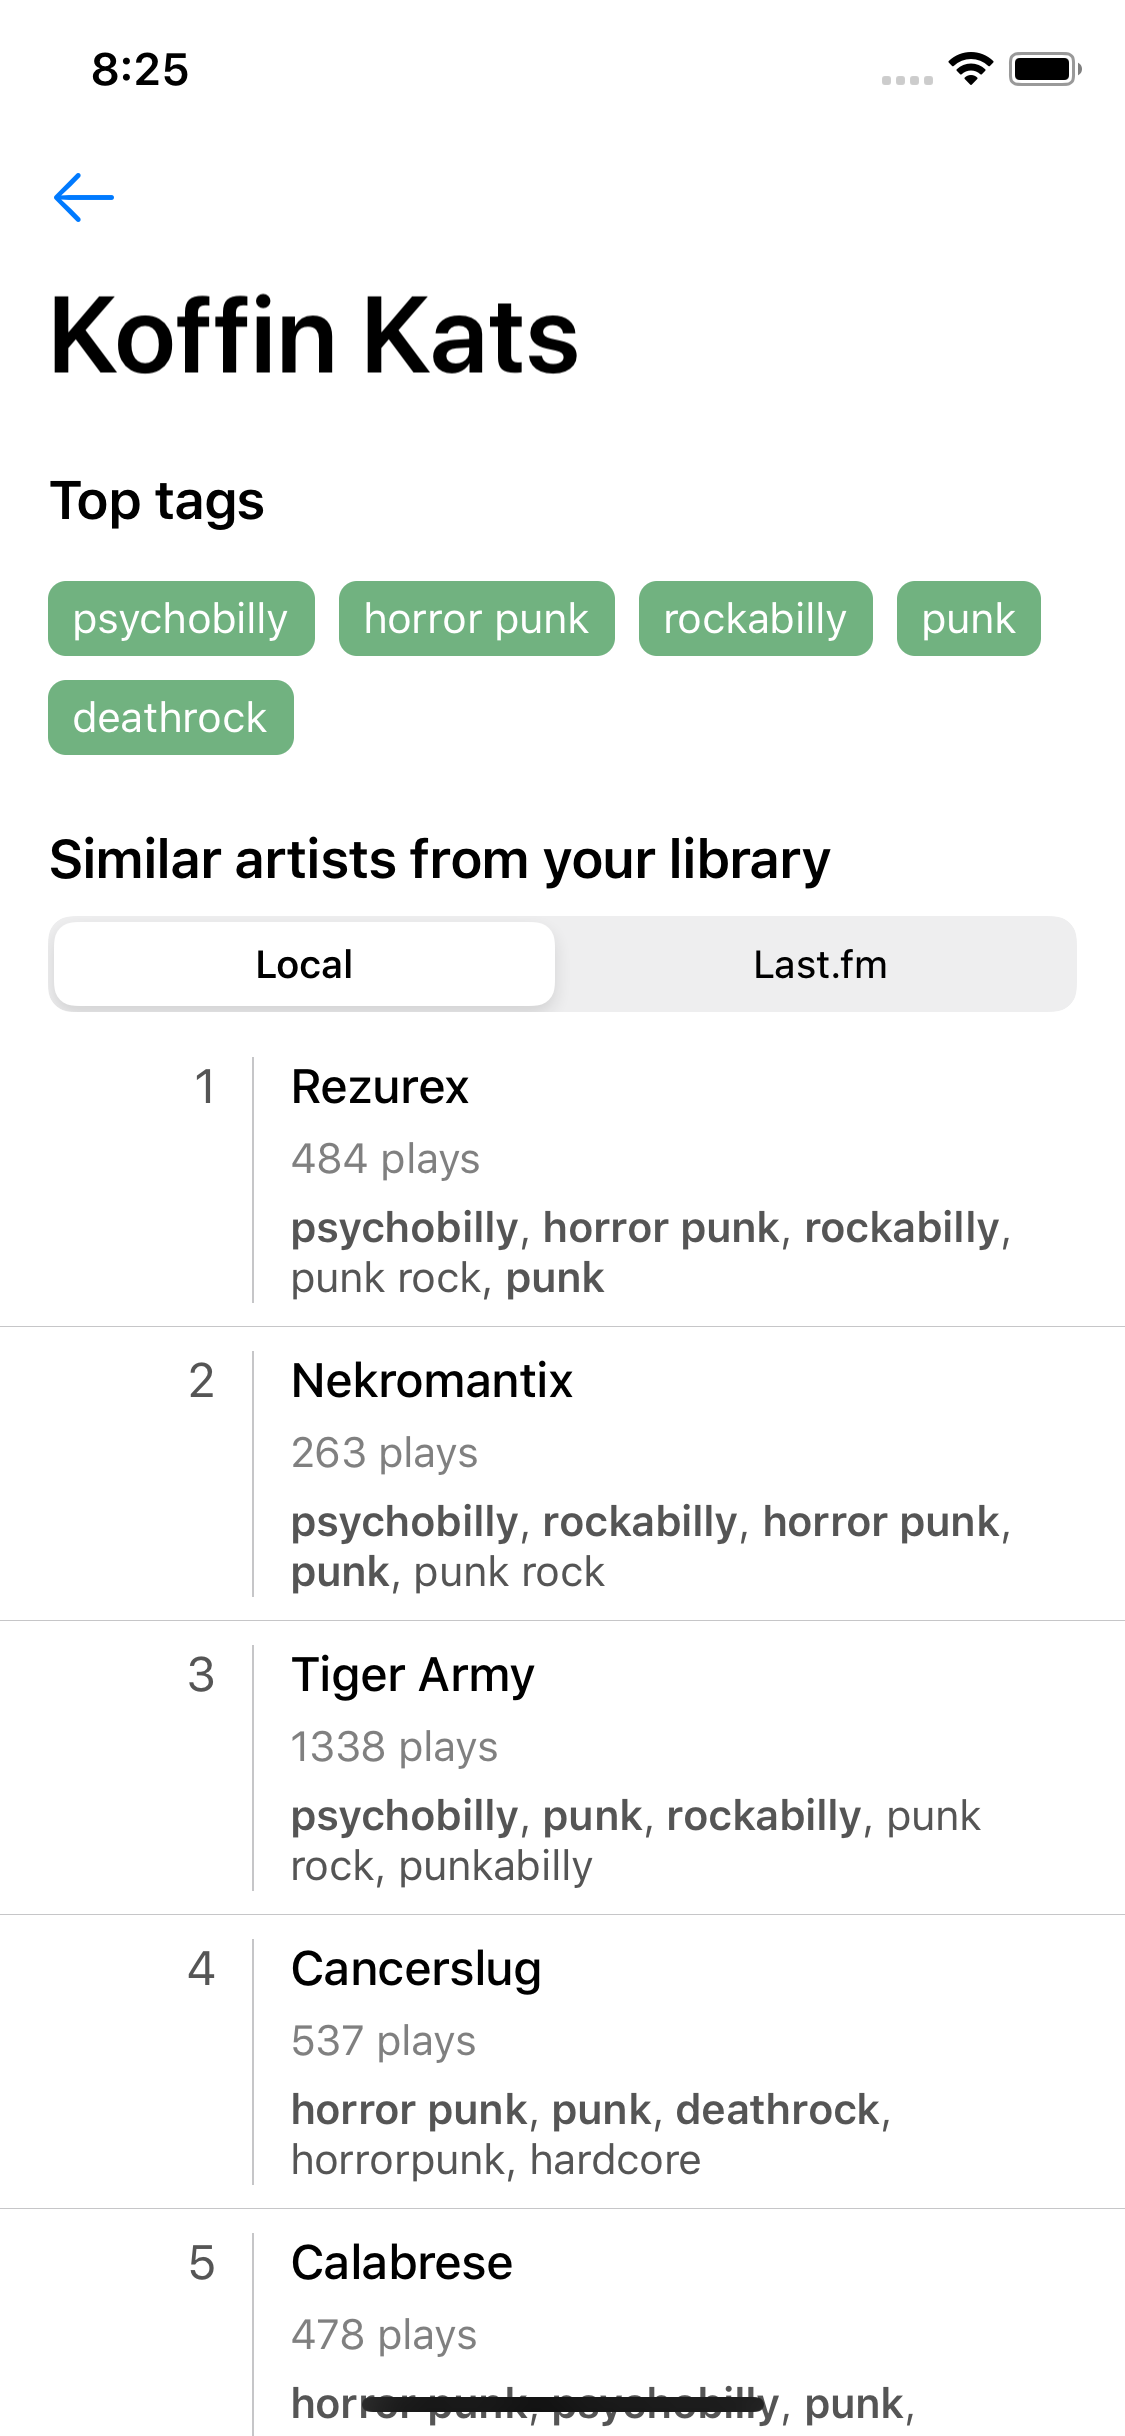
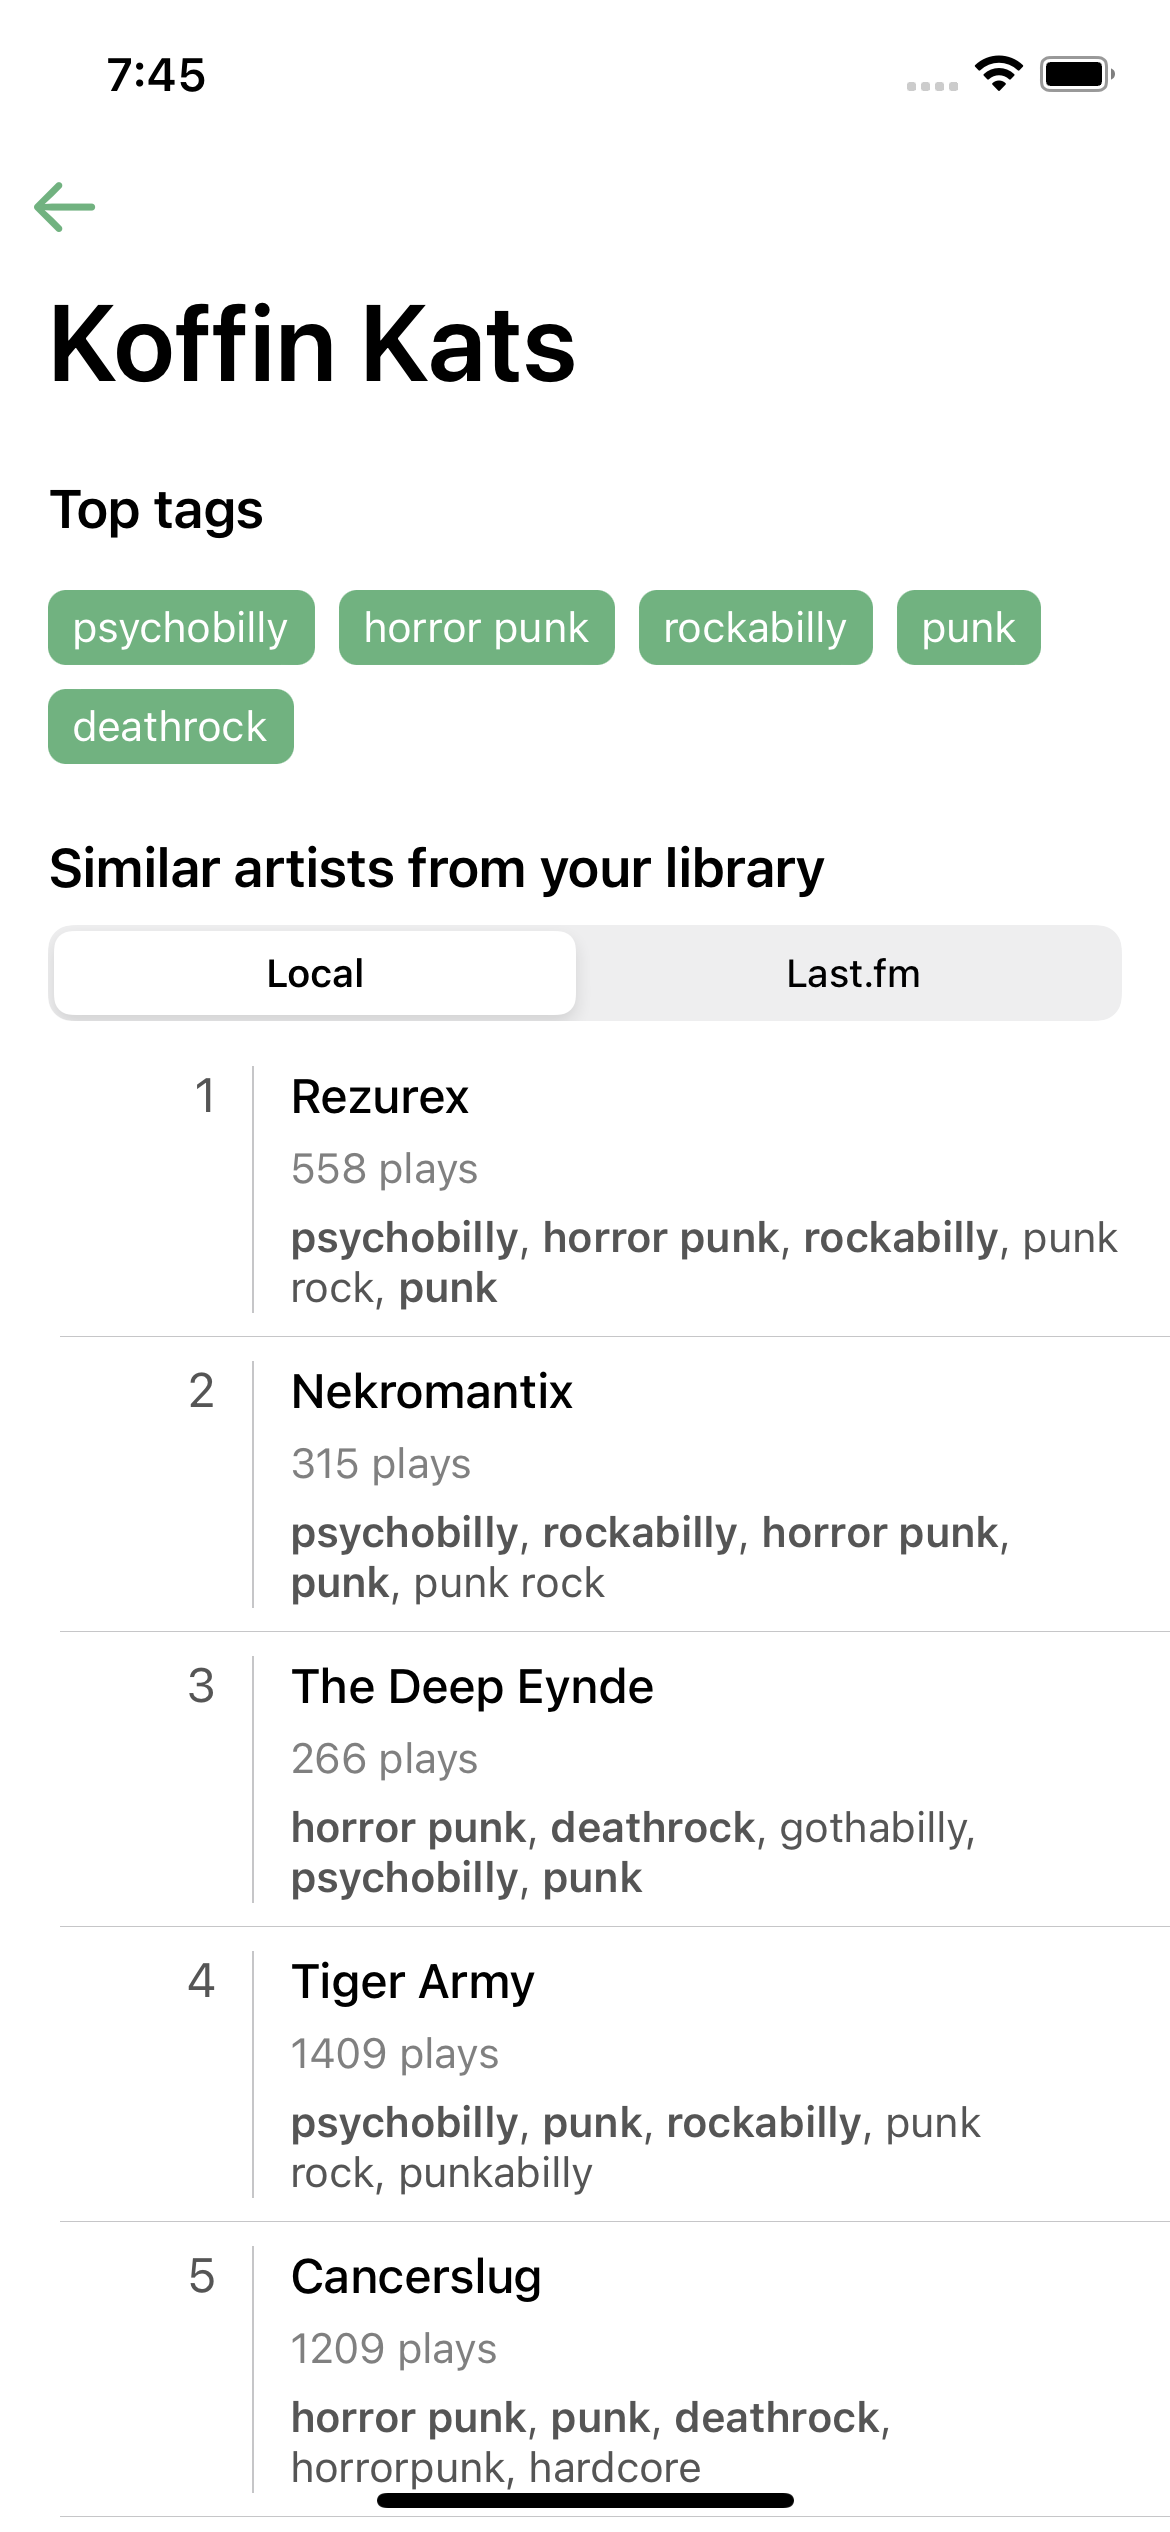
Fix iOS 15 table header spacing and update screenshots

diff --git a/Sources/Utils/AppearanceConfigurator.swift b/Sources/Utils/AppearanceConfigurator.swift
@@ -13,6 +13,7 @@ enum AppearanceConfigurator {
         configureNavigationBarAppearance()
         configureTabBarItemAppearance()
         configureSearchBarAppearance()
+        configureTableViewAppearance()
     }
 
     private static func configureNavigationBarAppearance() {
@@ -42,5 +43,11 @@ enum AppearanceConfigurator {
 
         let barButtonItemAppearance = UIBarButtonItem.appearance(whenContainedInInstancesOf: [UISearchBar.self])
         barButtonItemAppearance.setTitleTextAttributes([.font: UIFont.primaryContent], for: .normal)
+    }
+
+    private static func configureTableViewAppearance() {
+        if #available(iOS 15.0, *) {
+            UITableView.appearance().sectionHeaderTopPadding = 0
+        }
     }
 }
